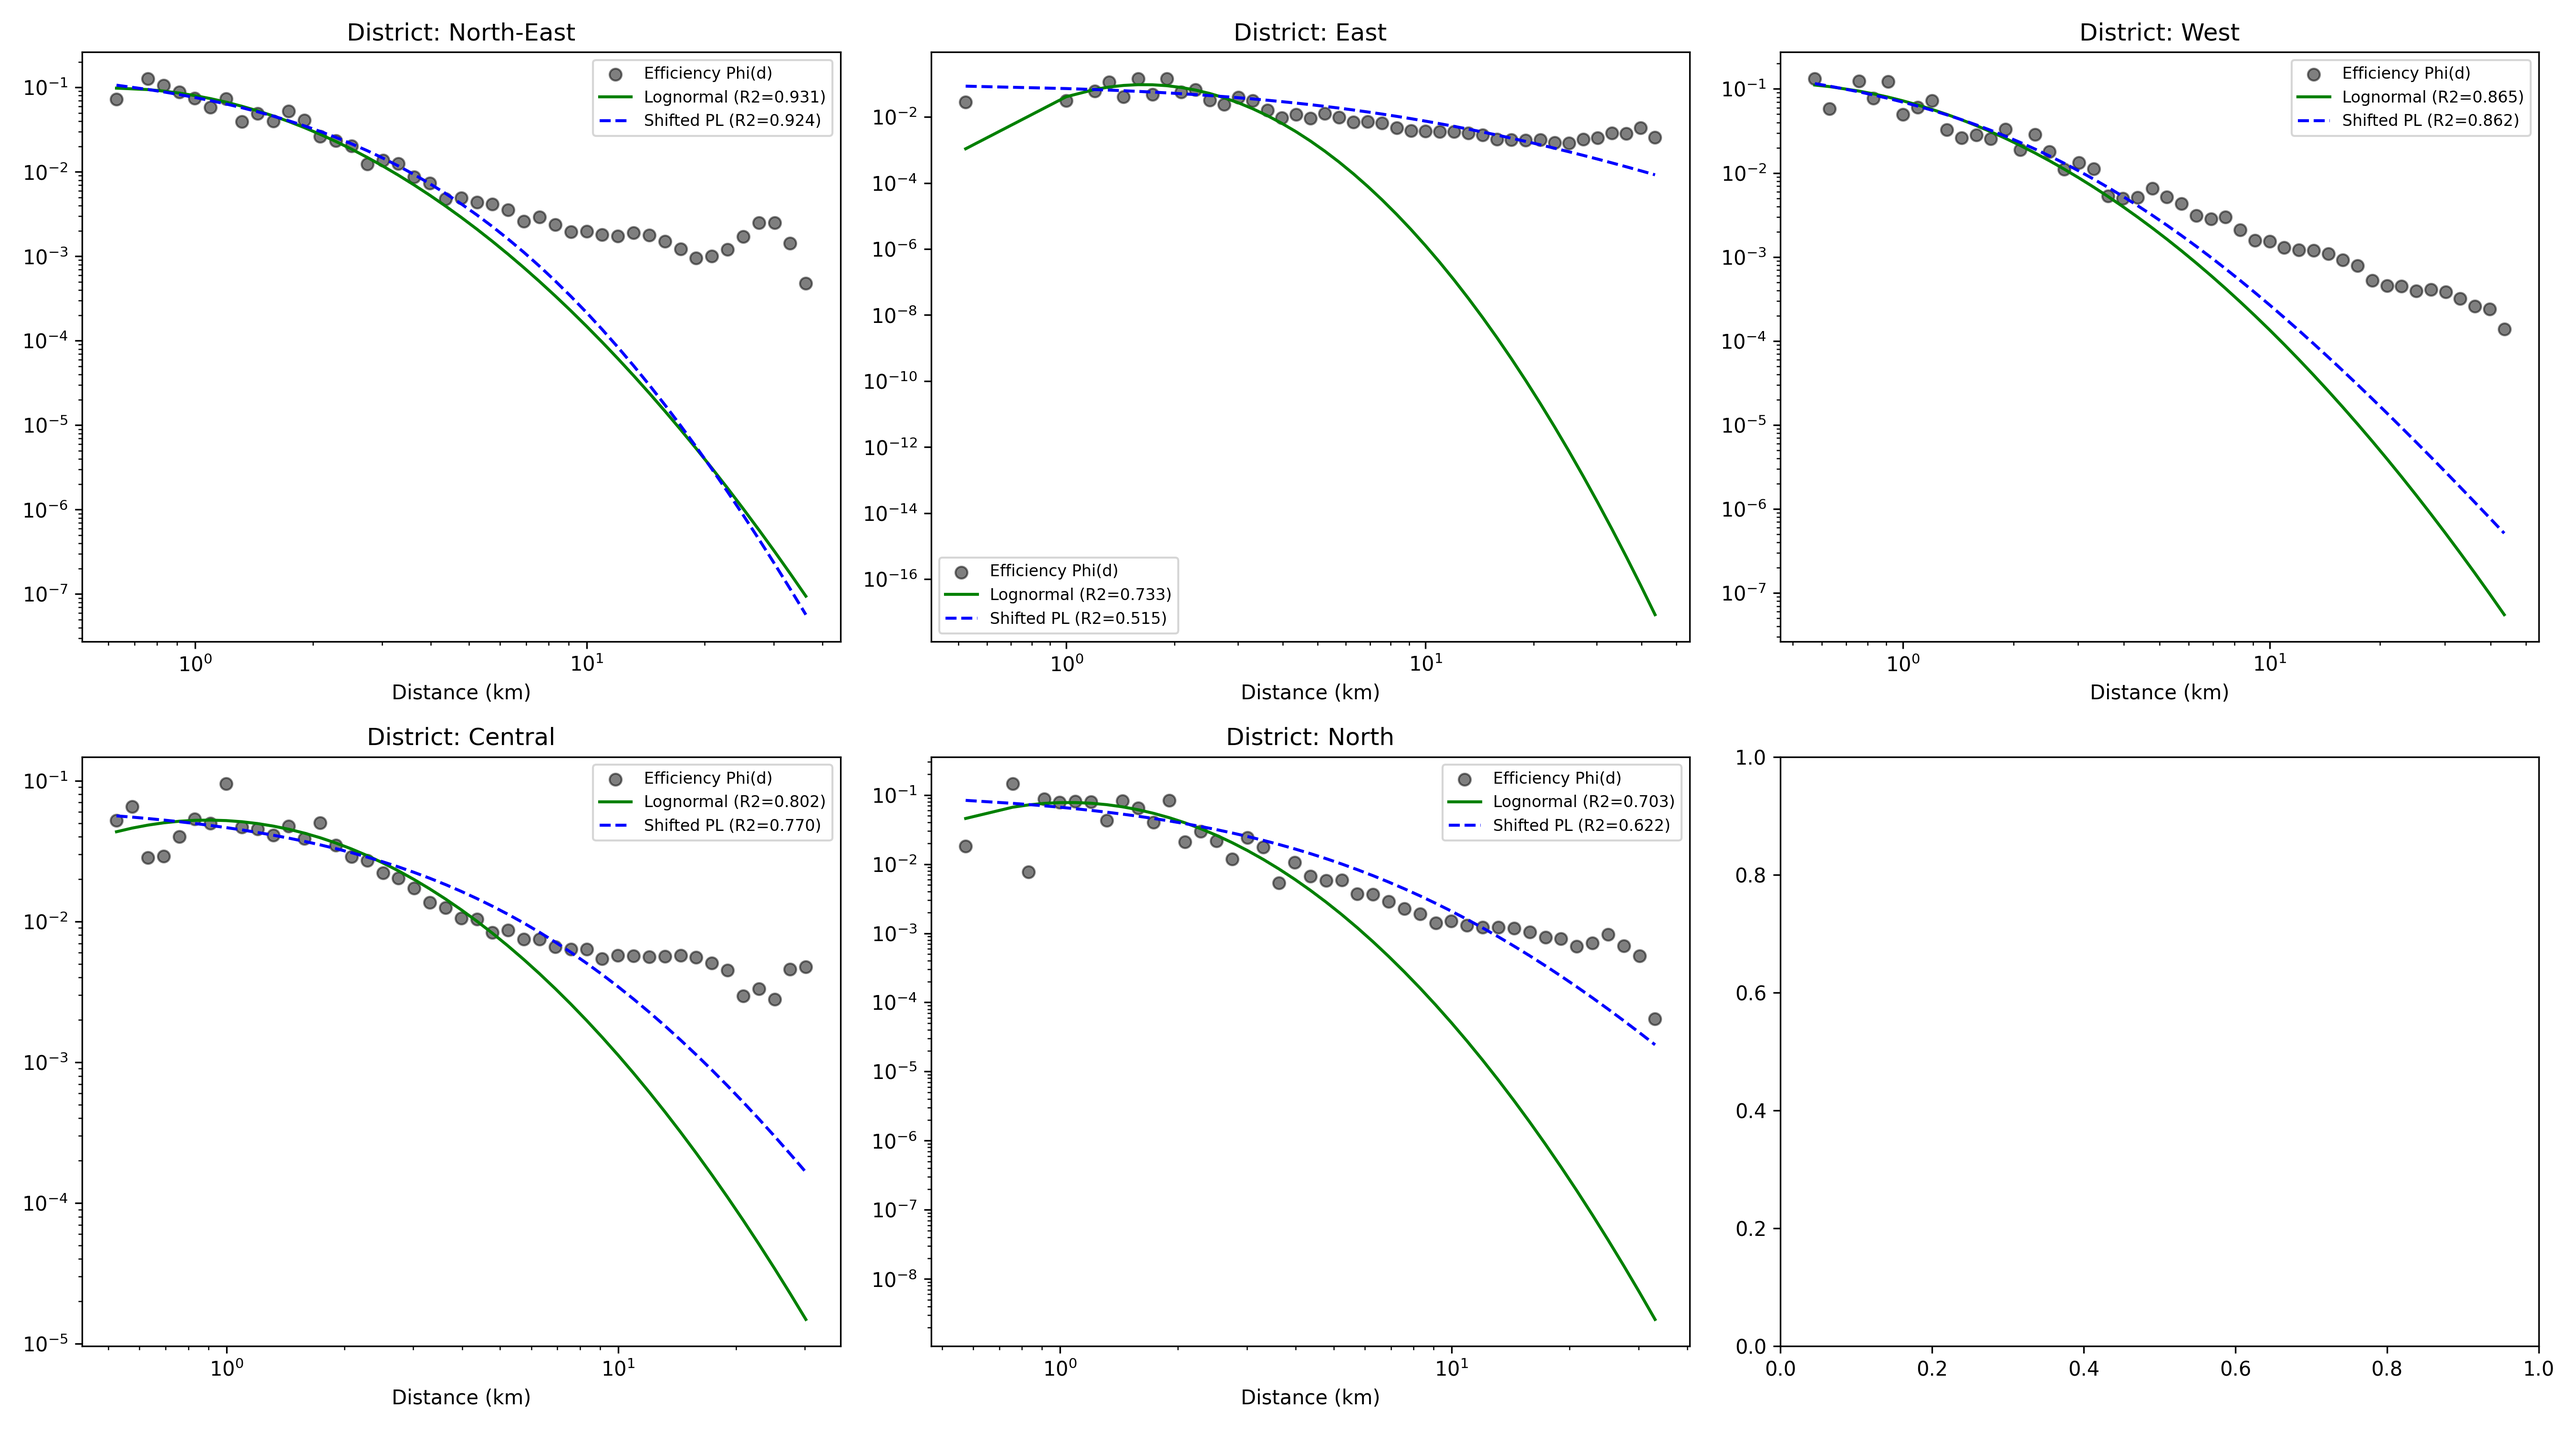
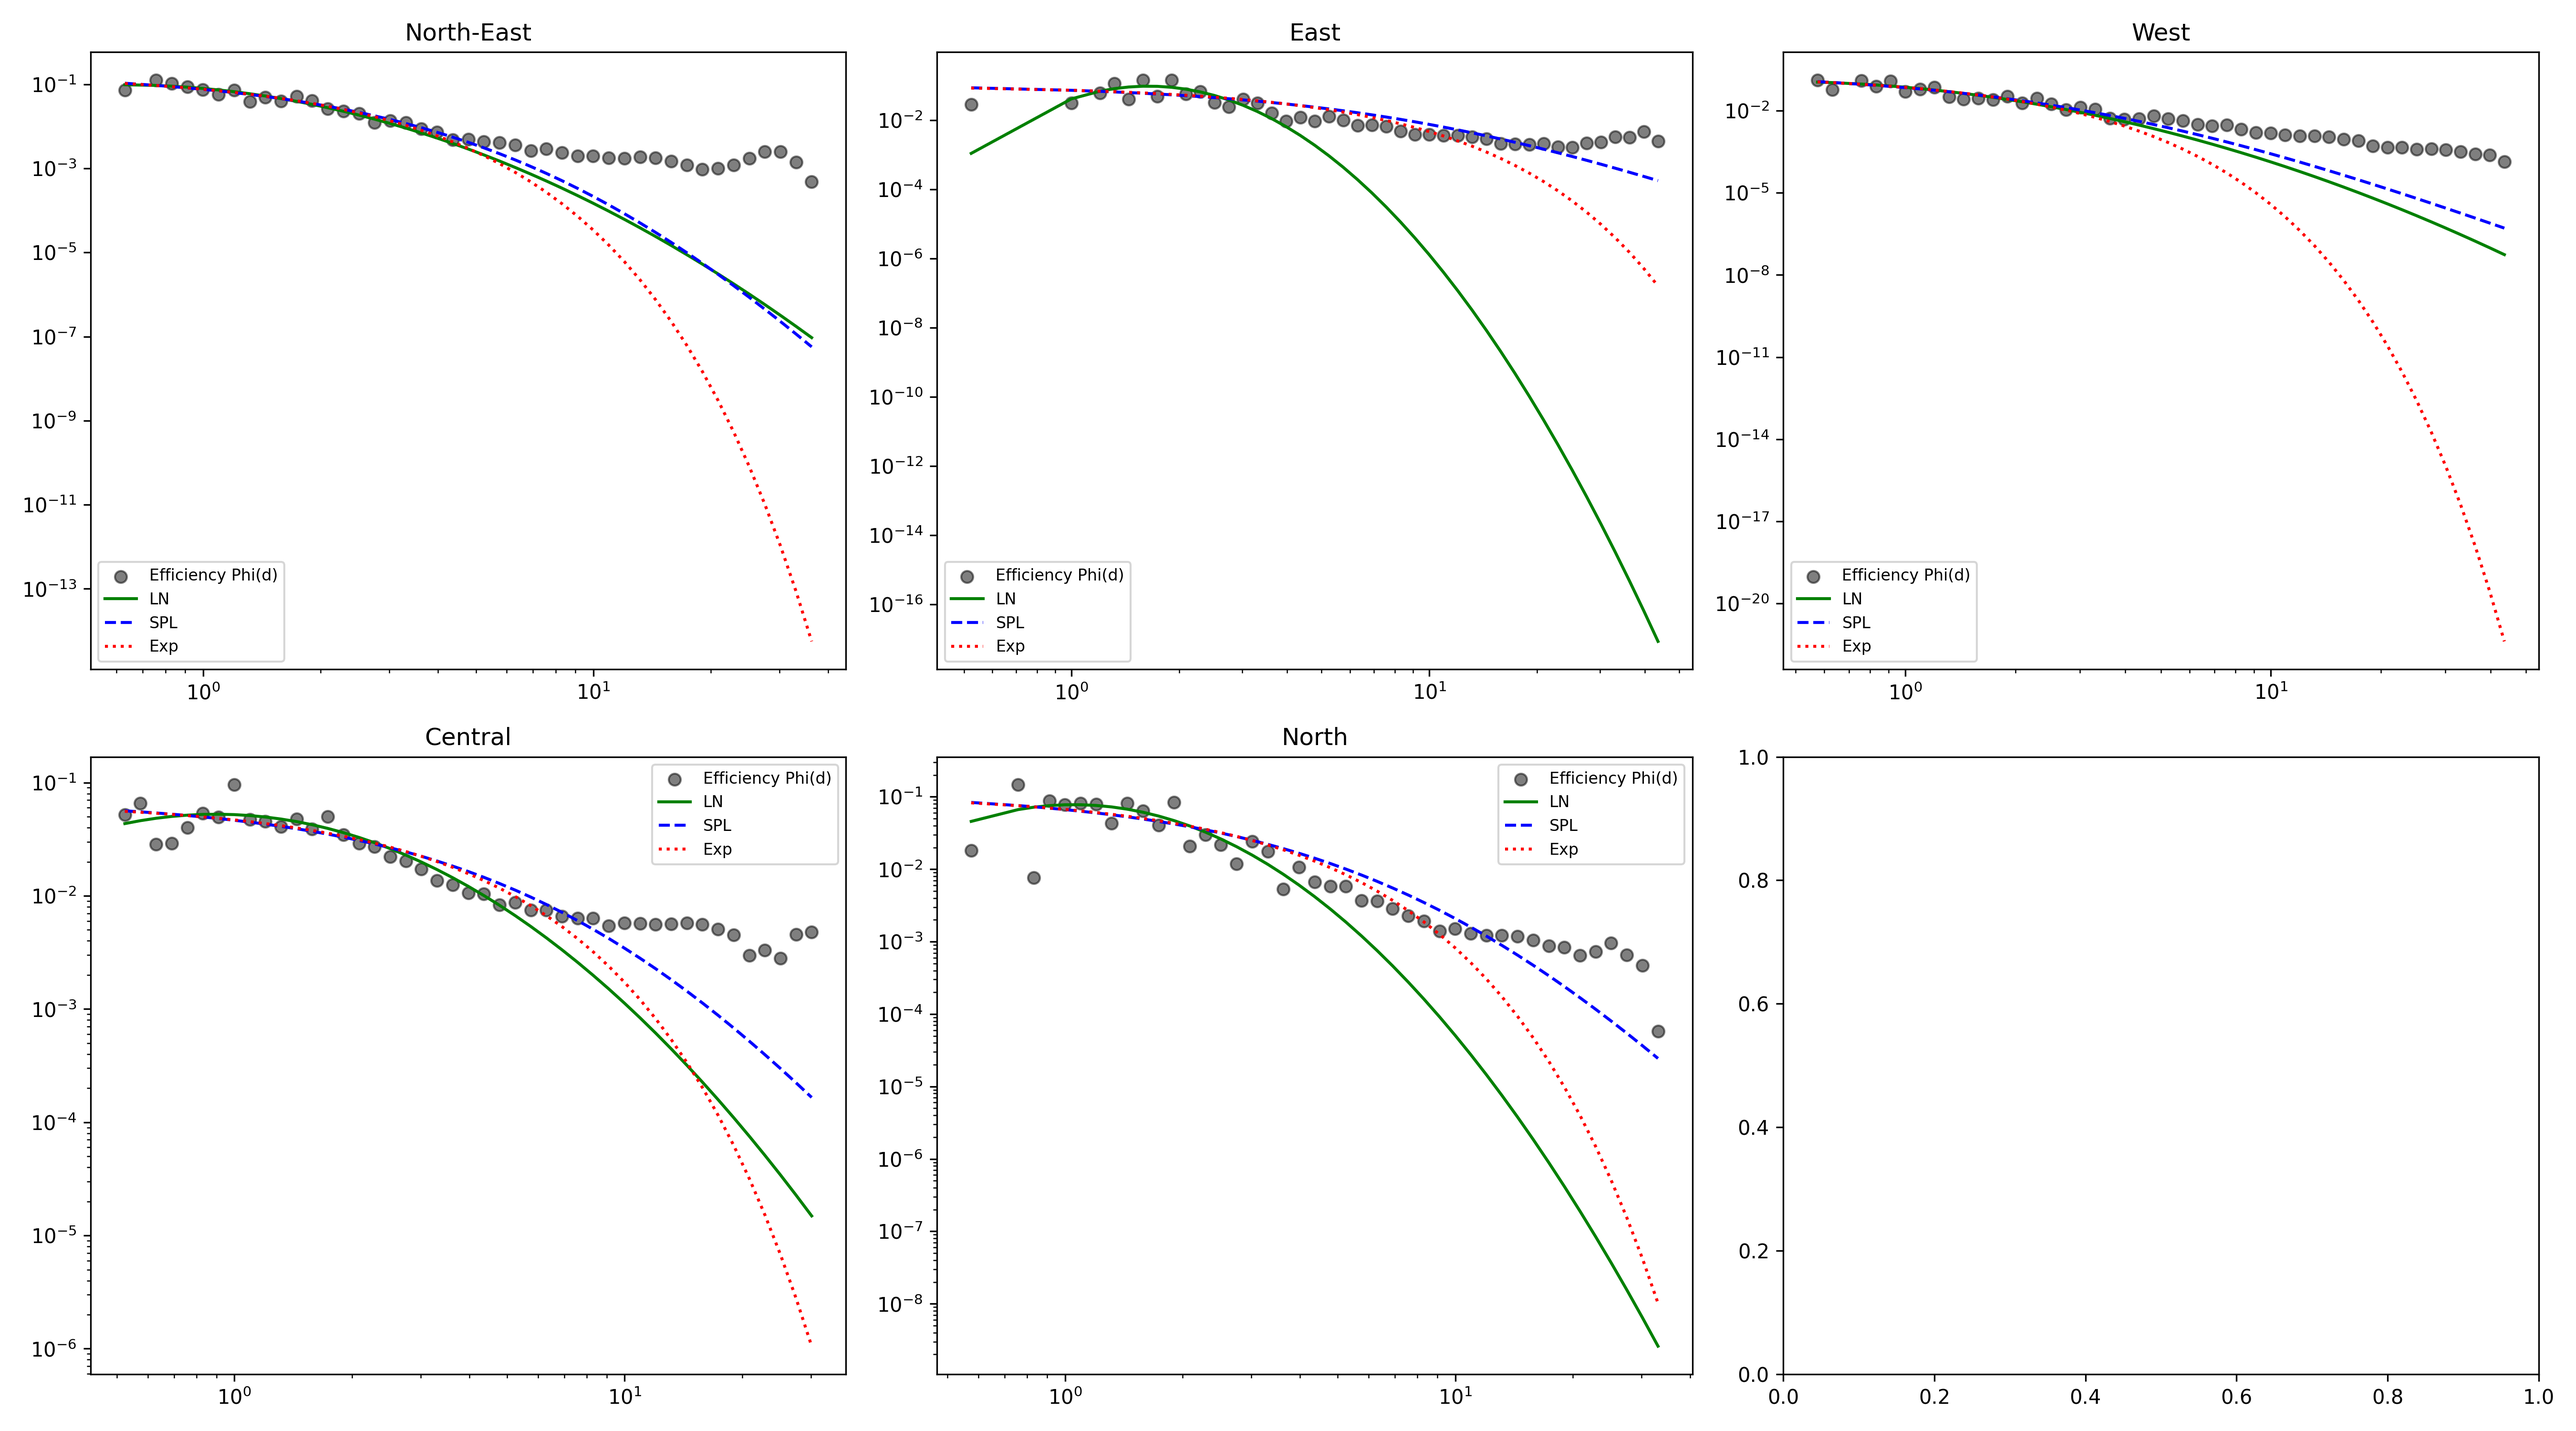
all

diff --git a/analyze_poi_attraction_districts.py b/analyze_poi_attraction_districts.py
@@ -40,6 +40,9 @@ def shift_power_law(r, C, r0, alpha):
 def get_r2(y_true, y_pred):
     return 1 - np.sum((y_true - y_pred)**2) / np.sum((y_true - np.mean(y_true))**2)
 
+def exp_dist(r, C, lam):
+    return C * np.exp(-r / lam)
+
 # 6. Analyze per District
 districts = df['origin_district'].unique()
 results = []
@@ -63,7 +66,6 @@ for i, dist in enumerate(districts):
     hist_trips, _ = np.histogram(distances, bins=bins, weights=counts)
     hist_pois, _ = np.histogram(distances, bins=bins, weights=pois)
     bin_centers = (bins[:-1] + bins[1:]) / 2
-    bin_widths = bins[1:] - bins[:-1]
     
     mask = (hist_trips > 0) & (hist_pois > 0)
     if mask.sum() < 6: continue
@@ -73,29 +75,47 @@ for i, dist in enumerate(districts):
     y_eff /= y_eff.sum() # Normalize
     
     try:
-        # Improved initial guesses
         popt_log, _ = curve_fit(lognormal_dist, x, y_eff, p0=[1, np.mean(np.log(x)), np.std(np.log(x))], maxfev=40000)
         popt_spl, _ = curve_fit(shift_power_law, x, y_eff, p0=[1, 0.5, 2], bounds=([0, 1e-4, 0.1], [np.inf, 10, 10]), maxfev=40000)
+        popt_exp, _ = curve_fit(exp_dist, x, y_eff, p0=[1, 5], maxfev=40000)
         
         r2_log = get_r2(y_eff, lognormal_dist(x, *popt_log))
         r2_spl = get_r2(y_eff, shift_power_law(x, *popt_spl))
+        r2_exp = get_r2(y_eff, exp_dist(x, *popt_exp))
         
+        # Calculate BIC for standardized comparison
+        # Treat N as the total trips in the district to give statistical weight
+        N_trips = sub_df['COUNT'].sum()
+        
+        def calculate_bic(y_true, y_pred, k, n_total):
+            y_pred_norm = y_pred / np.sum(y_pred)
+            ll = np.sum((y_true * n_total) * np.log(np.clip(y_pred_norm, 1e-300, 1)))
+            return k * np.log(n_total) - 2 * ll
+
+        bic_log = calculate_bic(y_eff, lognormal_dist(x, *popt_log), 3, N_trips)
+        bic_spl = calculate_bic(y_eff, shift_power_law(x, *popt_spl), 3, N_trips)
+        bic_exp = calculate_bic(y_eff, exp_dist(x, *popt_exp), 2, N_trips)
+
         results.append({
             'district_id': dist,
             'district_name': dist_names.get(dist, dist),
             'r2_log': round(r2_log, 4),
-            'r2_spl': round(r2_spl, 4)
+            'r2_spl': round(r2_spl, 4),
+            'r2_exp': round(r2_exp, 4),
+            'bic_log': bic_log,
+            'bic_spl': bic_spl,
+            'bic_exp': bic_exp
         })
         
         # Plot
         ax = axes[i]
         ax.scatter(x, y_eff, color='black', alpha=0.5, label='Efficiency Phi(d)')
-        ax.plot(x, lognormal_dist(x, *popt_log), 'g-', label=f'Lognormal (R2={r2_log:.3f})')
-        ax.plot(x, shift_power_law(x, *popt_spl), 'b--', label=f'Shifted PL (R2={r2_spl:.3f})')
-        ax.set_title(f"District: {dist_names.get(dist, dist)}")
+        ax.plot(x, lognormal_dist(x, *popt_log), 'g-', label='LN')
+        ax.plot(x, shift_power_law(x, *popt_spl), 'b--', label='SPL')
+        ax.plot(x, exp_dist(x, *popt_exp), 'r:', label='Exp')
+        ax.set_title(f"{dist_names.get(dist, dist)}")
         ax.set_xscale('log')
         ax.set_yscale('log')
-        ax.set_xlabel('Distance (km)')
         ax.legend(fontsize=8)
         
     except Exception as e:

diff --git a/analyze_poi_attraction.py b/analyze_poi_attraction.py
@@ -51,15 +51,18 @@ def lognormal_dist(r, C, mu, sigma):
 def shift_power_law(r, C, r0, alpha):
     return C * (r + r0)**(-alpha)
 
+def exp_dist(r, C, lam):
+    return C * np.exp(-r / lam)
+
 # Fit both P(d) and Efficiency Phi(d)
 x = bin_centers.values
 y_prob = prob_d.values
 y_eff = efficiency_d.values
 
-# Lognormal fit on Phi(d)
+# Fitting
 popt_log_eff, _ = curve_fit(lognormal_dist, x, y_eff, p0=[1, 1, 1], maxfev=10000)
-# SPL fit on Phi(d)
 popt_spl_eff, _ = curve_fit(shift_power_law, x, y_eff, p0=[1, 1, 1.5], maxfev=10000)
+popt_exp_eff, _ = curve_fit(exp_dist, x, y_eff, p0=[1, 5], maxfev=10000)
 
 # Calculate metrics for Phi(d)
 def get_metrics(y_true, y_pred, k, n):
@@ -76,8 +79,25 @@ def get_metrics(y_true, y_pred, k, n):
     return round(r2, 4), round(ks_stat, 4), round(rmse, 6)
 
 n = len(x)
+N_total = df['COUNT'].sum()
+
+def calculate_bic(y_true, y_pred, k, n_total):
+    y_pred_norm = y_pred / np.sum(y_pred)
+    ll = np.sum((y_true * n_total) * np.log(np.clip(y_pred_norm, 1e-300, 1)))
+    return k * np.log(n_total) - 2 * ll
+
 r2_log_eff, ks_log_eff, rmse_log_eff = get_metrics(y_eff, lognormal_dist(x, *popt_log_eff), 3, n)
 r2_spl_eff, ks_spl_eff, rmse_spl_eff = get_metrics(y_eff, shift_power_law(x, *popt_spl_eff), 3, n)
+r2_exp_eff, ks_exp_eff, rmse_exp_eff = get_metrics(y_eff, exp_dist(x, *popt_exp_eff), 2, n)
+
+bic_log_eff = calculate_bic(y_eff, lognormal_dist(x, *popt_log_eff), 3, N_total)
+bic_spl_eff = calculate_bic(y_eff, shift_power_law(x, *popt_spl_eff), 3, N_total)
+bic_exp_eff = calculate_bic(y_eff, exp_dist(x, *popt_exp_eff), 2, N_total)
+
+print(f"Global Efficiency Results:")
+print(f"Lognormal: R2={r2_log_eff}, BIC={bic_log_eff:,.0f}")
+print(f"SPL: R2={r2_spl_eff}, BIC={bic_spl_eff:,.0f}")
+print(f"Exponential: R2={r2_exp_eff}, BIC={bic_exp_eff:,.0f}")
 
 print(f"Lognormal: R2={r2_log_eff}, KS={ks_log_eff}, RMSE={rmse_log_eff}")
 print(f"SPL: R2={r2_spl_eff}, KS={ks_spl_eff}, RMSE={rmse_spl_eff}")

diff --git a/draft_scientific_paper.md b/draft_scientific_paper.md
@@ -244,12 +244,12 @@ Sự nhất quán ở tầm xa trung bình và dài xác nhận dữ liệu GT l
 
 **Table 7.** Goodness-of-fit for Mobility Efficiency $\Phi(d_j)$ (Global and District-level).
 
-| Scale / Region             | $R^2$ (Lognormal) | $R^2$ (SPL) |
-|----------------------------|-------------------|-------------|
-| **Global (43 bins)**       | **0.9769**        | 0.9768      |
-| **Mean (5 Districts)**     | **0.8071**        | **0.7385**  |
+| Scale / Region | $R^2$ (LN) | $BIC$ (LN) | $R^2$ (SPL) | $BIC$ (SPL) | $R^2$ (Exp) | $BIC$ (Exp) |
+| :--- | :---: | :---: | :---: | :---: | :---: | :---: |
+| **Global (43 bins)** | **0.9769** | 44.6M | 0.9768 | **42.1M** | 0.9655 | 64.8M |
+| **Mean (5 Districts)** | **0.8071** | 10.1M | 0.7385 | **9.6M** | 0.7429 | 12.4M |
 
-Sau khi khử sức hút hạ tầng, **Lognormal** quay trở lại vị trí dẫn đầu ($R^2=0.8071$ vs $SPL=0.7385$).
+Mặc dù **Lognormal** dẫn đầu về $R^2$ (độ khớp hình học), nhưng **Shifted Power-Law (SPL)** lại chiến thắng về tiêu chuẩn **BIC** sau khi chuẩn hóa POI. Điều này cho thấy SPL có khả năng mô tả phân phối xác suất hiệu suất di chuyển ổn định hơn, đặc biệt là ở các khoảng cách xa nơi tàn dư của cấu trúc đô thị vẫn còn ảnh hưởng.
 
 ![POI Attraction Analysis](poi_attraction_analysis.png)
 *Hình 4. Hiệu suất di chuyển $\Phi(d)$ sau khi chuẩn hóa theo POIs.*
